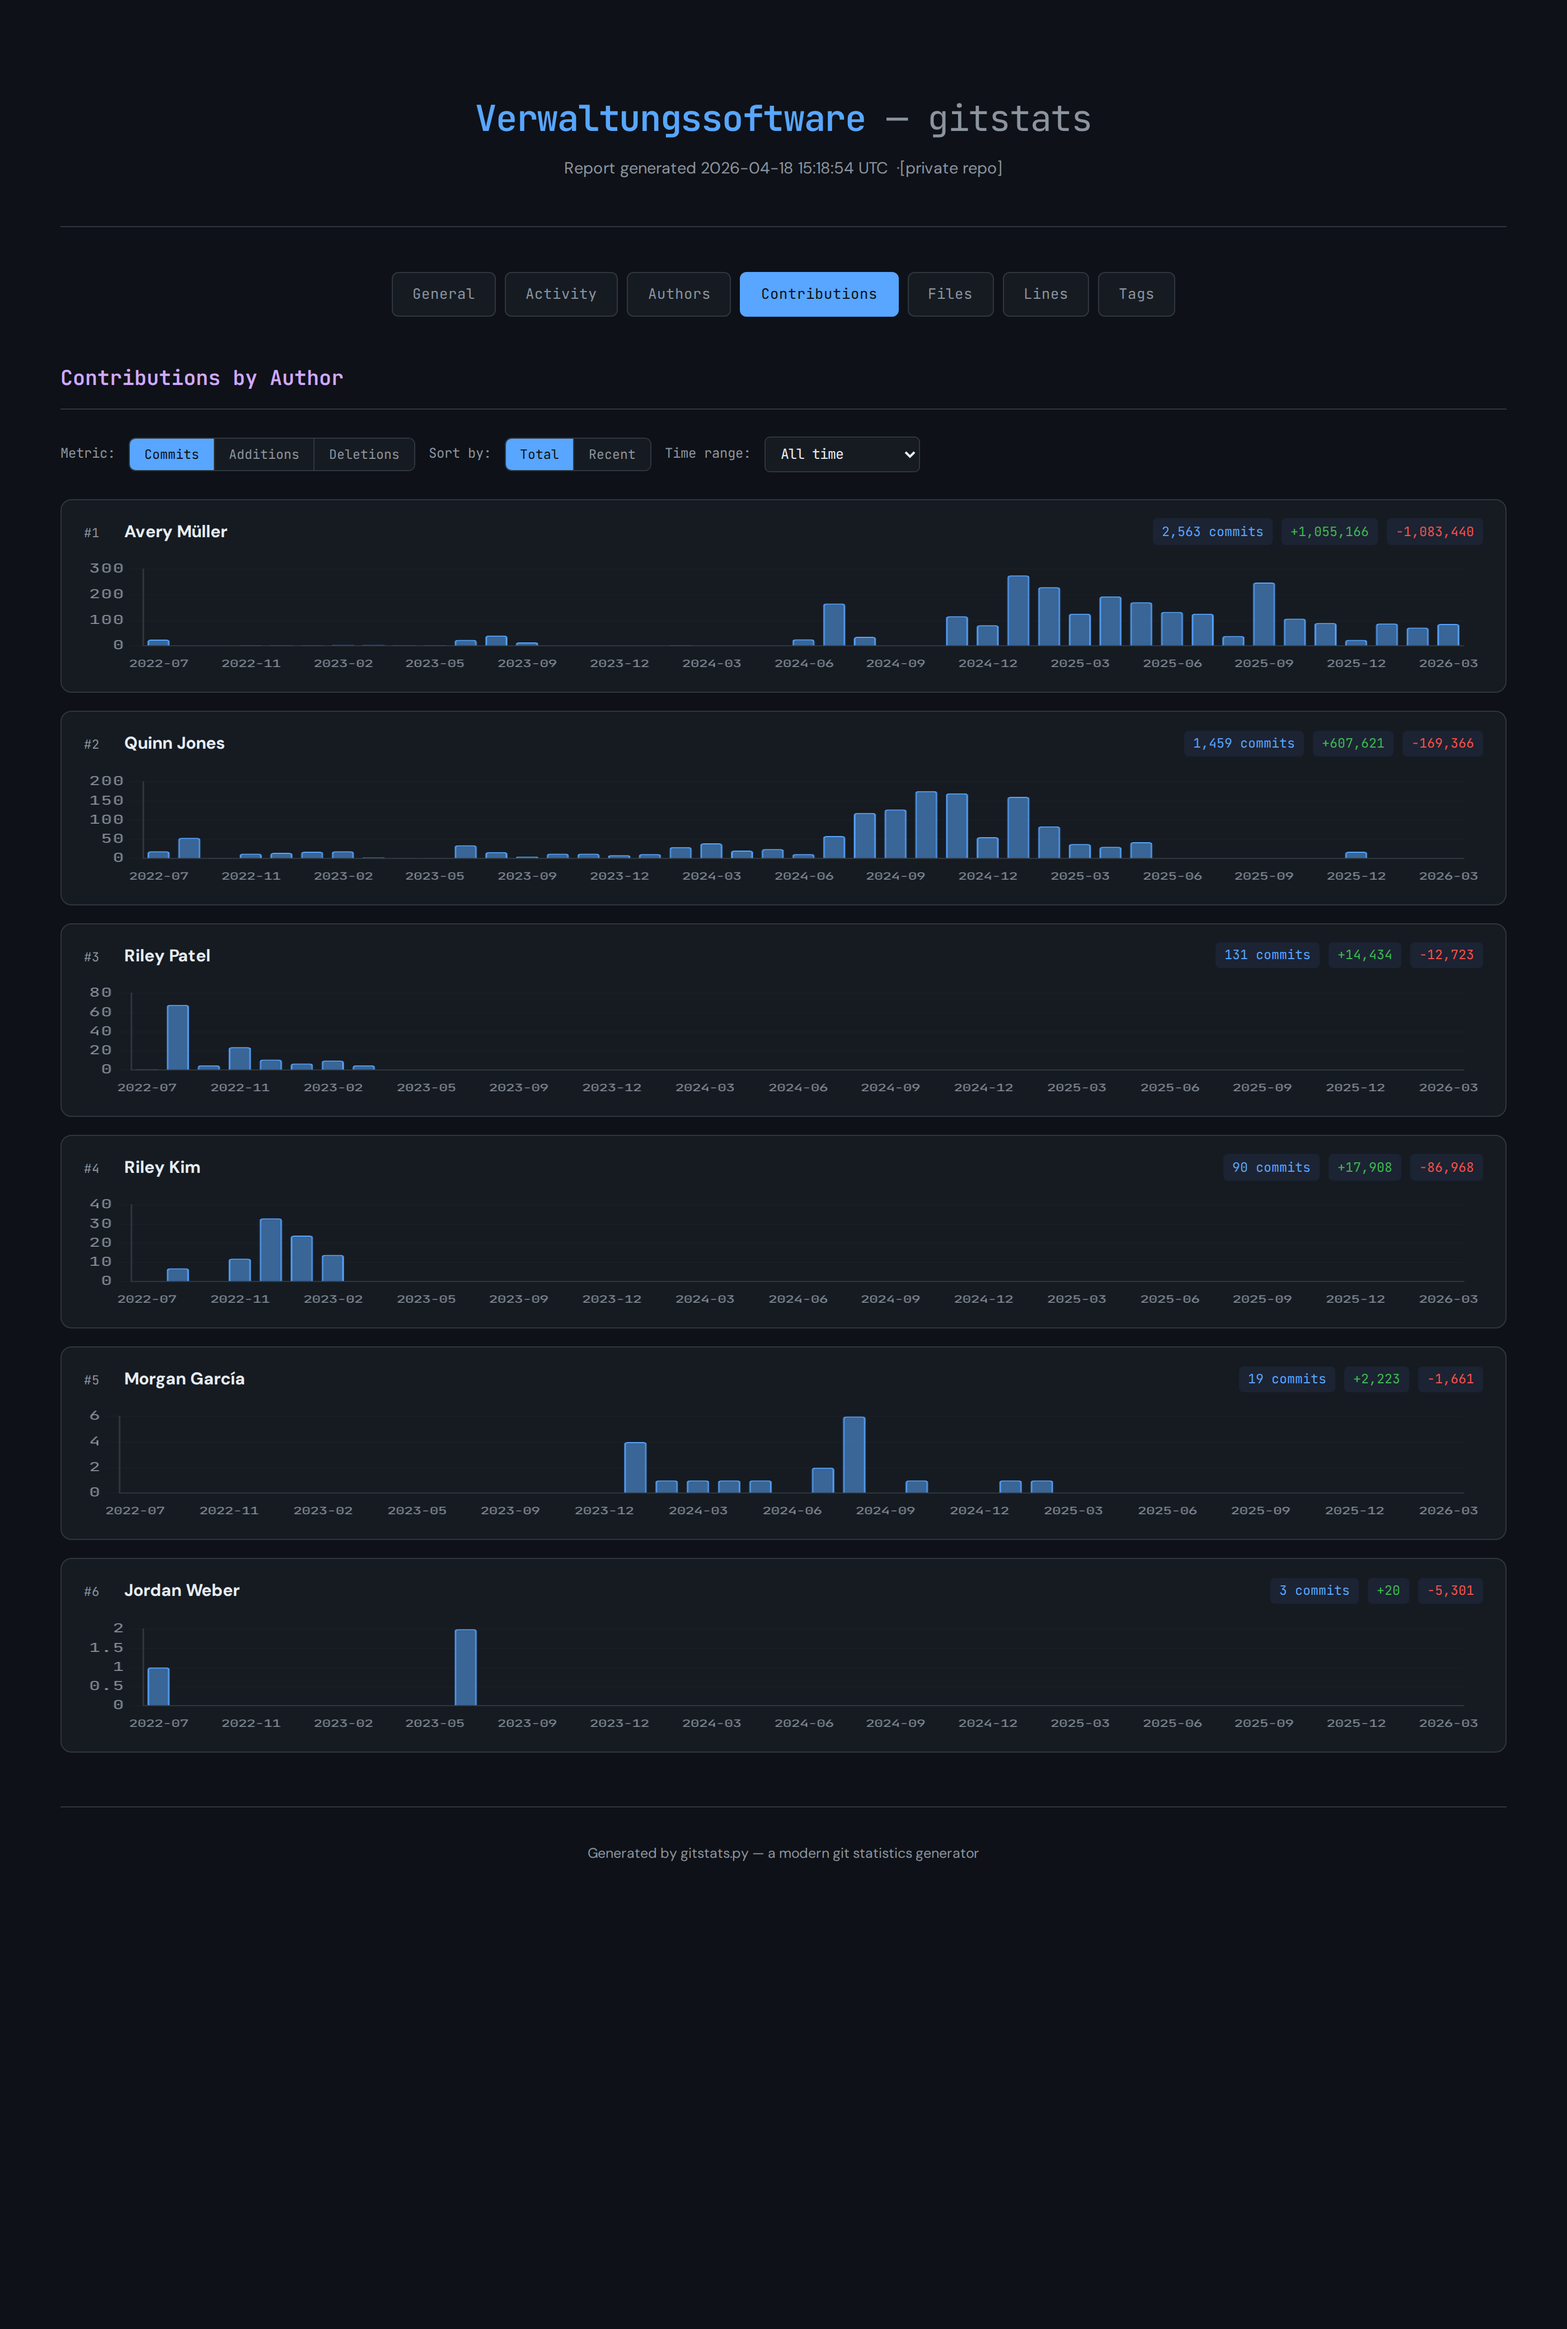
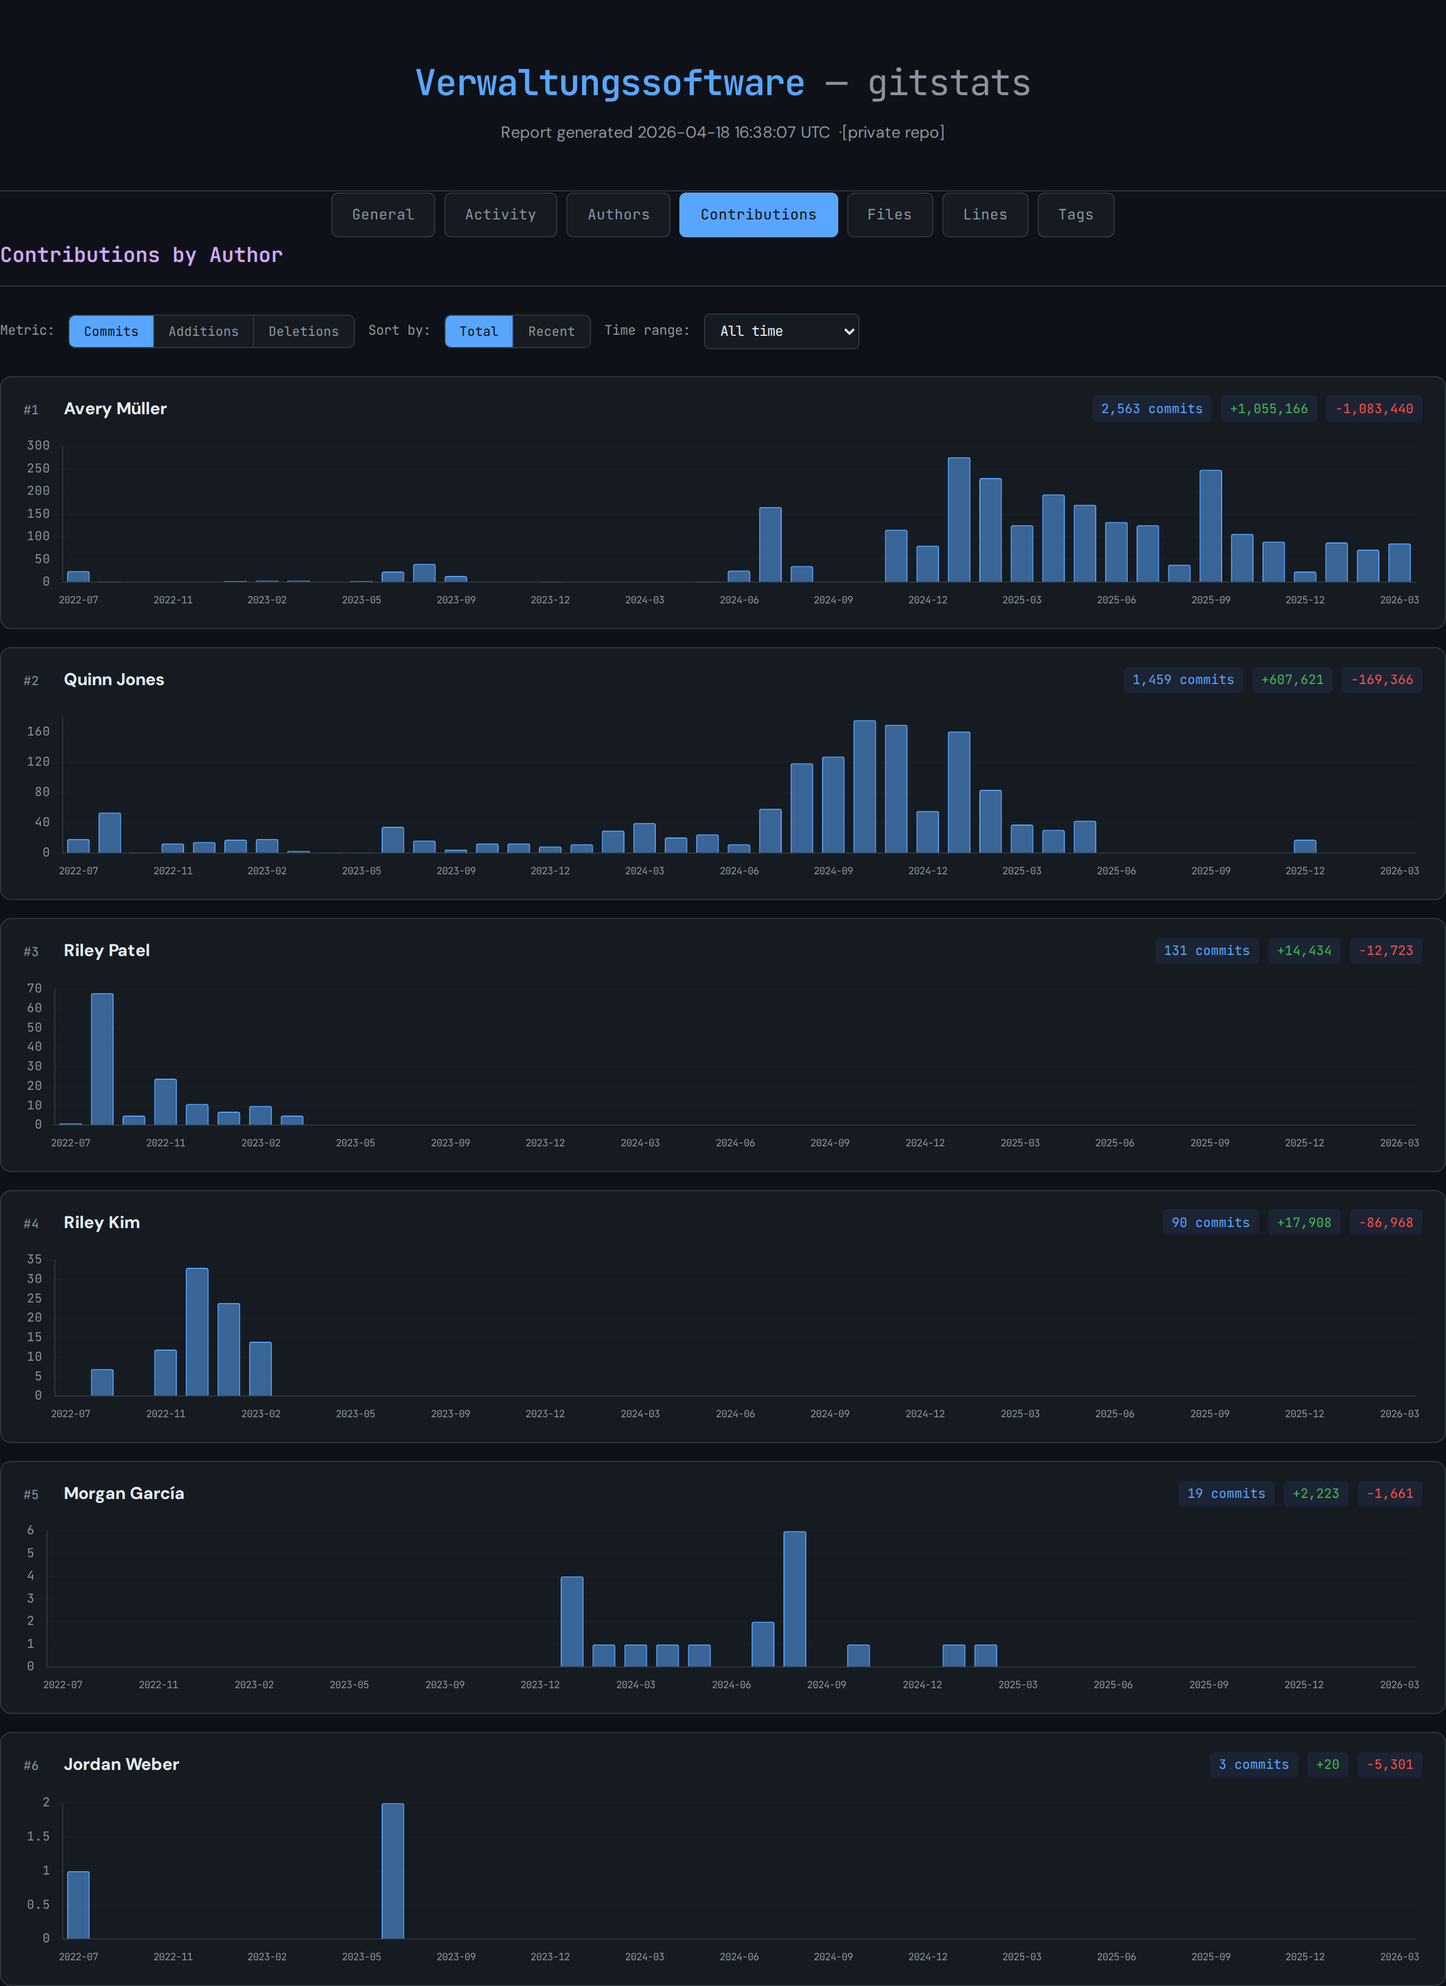
Fix chart rendering in screenshots and add CLAUDE.md
Charts rendered inside display:none sections measured 0-width containers,
producing broken axis layouts. Fix: patch HTML to show all sections before
load, init all charts at correct width, then element-screenshot each section
and PIL-composite with header+nav — no show/hide toggling during capture.

diff --git a/docs/sample_report.html b/docs/sample_report.html
@@ -391,7 +391,7 @@ footer {
 
 <header>
     <h1>Verwaltungssoftware <span>— gitstats</span></h1>
-    <p>Report generated 2026-04-18 15:18:54 UTC &nbsp;·[private repo]</p>
+    <p>Report generated 2026-04-18 16:38:07 UTC &nbsp;·[private repo]</p>
 </header>
 
 <nav>

diff --git a/docs/screenshot.py b/docs/screenshot.py
@@ -170,6 +170,20 @@ def obfuscate(html: str) -> str:
 async def take_screenshots(html_path: Path):
     from playwright.async_api import async_playwright
 
+    # Patch the HTML so ALL sections are display:block before any JS runs.
+    # Charts inside display:none measure 0-width → broken axis layouts.
+    # We keep all sections visible throughout and clip each screenshot to
+    # the relevant section's bounding box — no show/hide toggling at all.
+    patched_path = html_path.parent / (html_path.stem + '_screenshot.html')
+    src = html_path.read_text(encoding='utf-8')
+    src = src.replace(
+        '</head>',
+        '<style>.section{display:block!important}</style></head>',
+        1,
+    )
+    # Also pre-mark all sections active so nav highlights look right per screenshot
+    patched_path.write_text(src, encoding='utf-8')
+
     async with async_playwright() as p:
         browser = await p.chromium.launch()
         page = await browser.new_page(
@@ -177,33 +191,65 @@ async def take_screenshots(html_path: Path):
             device_scale_factor=2,
         )
 
-        await page.goto(f'file://{html_path}', wait_until='networkidle')
-        await page.wait_for_timeout(2000)  # fonts + initial render
+        await page.goto(f'file://{patched_path}', wait_until='networkidle')
+        await page.wait_for_timeout(500)
+
+        # Trigger every section's lazy init — all visible, correct widths.
+        await page.evaluate('''
+            Object.keys(sectionInits).forEach(sec => {
+                if (!_init[sec]) { _init[sec] = true; sectionInits[sec](); }
+            });
+        ''')
+
+        # Scroll full page slowly so every chart renders and animates.
+        scroll_y = 0
+        total_h = await page.evaluate('document.documentElement.scrollHeight')
+        while scroll_y < total_h:
+            scroll_y = min(scroll_y + 600, total_h)
+            await page.evaluate(f'window.scrollTo(0, {scroll_y})')
+            await page.wait_for_timeout(120)
+            total_h = await page.evaluate('document.documentElement.scrollHeight')
+        await page.evaluate('window.scrollTo(0, 0)')
+        await page.wait_for_timeout(2000)
 
         for sec_name, filename in SECTIONS:
             print(f'  {sec_name}...')
 
-            await page.click(f'nav a[data-sec="{sec_name}"]')
-            await page.evaluate('window.scrollTo(0, 0)')
-            await page.wait_for_timeout(800)
+            # Highlight the correct nav tab
+            await page.evaluate(f'''
+                document.querySelectorAll("nav a").forEach(a =>
+                    a.classList.toggle("active", a.dataset.sec === "{sec_name}"));
+            ''')
+            await page.wait_for_timeout(200)
 
-            # Scroll slowly to trigger lazy chart inits
-            scroll_y = 0
-            total_h = await page.evaluate('document.documentElement.scrollHeight')
-            while scroll_y < total_h:
-                scroll_y = min(scroll_y + 600, total_h)
-                await page.evaluate(f'window.scrollTo(0, {scroll_y})')
-                await page.wait_for_timeout(150)
-                total_h = await page.evaluate('document.documentElement.scrollHeight')
+            # Build a composite: screenshot the sticky top bar + the section element.
+            # We render the top (header+nav) and section separately then paste them.
+            top_el = await page.query_selector('header')
+            nav_el = await page.query_selector('nav')
+            sec_el = await page.query_selector(f'#sec-{sec_name}')
 
-            await page.evaluate('window.scrollTo(0, 0)')
-            await page.wait_for_timeout(1500)
+            top_img_bytes  = await top_el.screenshot()
+            nav_img_bytes  = await nav_el.screenshot()
+            sec_img_bytes  = await sec_el.screenshot()
+
+            from PIL import Image
+            import io
+            top_img = Image.open(io.BytesIO(top_img_bytes))
+            nav_img = Image.open(io.BytesIO(nav_img_bytes))
+            sec_img = Image.open(io.BytesIO(sec_img_bytes))
+
+            total_h = top_img.height + nav_img.height + sec_img.height
+            composite = Image.new('RGB', (sec_img.width, total_h), (13, 17, 23))
+            composite.paste(top_img, (0, 0))
+            composite.paste(nav_img, (0, top_img.height))
+            composite.paste(sec_img, (0, top_img.height + nav_img.height))
 
             out = SCRIPT_DIR / filename
-            await page.screenshot(path=str(out), full_page=True)
+            composite.save(str(out))
             print(f'    → {out}')
 
         await browser.close()
+        patched_path.unlink(missing_ok=True)
 
 # ── Main ──────────────────────────────────────────────────────────────────────
 

diff --git a/current-CLAUDE.md b/current-CLAUDE.md
@@ -1,0 +1,101 @@
+# CLAUDE.md — gitstats (working copy)
+
+> **Versioning**: This file (`current-CLAUDE.md`) tracks in-progress work.
+> When a batch of changes is pushed, replace `CLAUDE.md` with this file's content.
+> On revert, restore the `CLAUDE.md` that matches the target commit — `current-CLAUDE.md`
+> can be discarded or reset. Never commit `current-CLAUDE.md` changes as a standalone
+> commit; bundle them with the actual code changes they describe.
+
+---
+
+## What this project is
+
+`gitstats.py` — a single-file Python script that analyzes a git repository and produces
+a self-contained, dark-themed HTML report with Chart.js charts and interactive tables.
+
+**Output**: one `index.html` file, no external dependencies at runtime.
+
+**Usage**: `python3 gitstats.py <repo_path> [output_dir]`
+
+---
+
+## Repo layout
+
+```
+gitstats.py            # main script — all HTML/CSS/JS is generated inline here
+docs/
+  screenshot.py        # Playwright script: generates obfuscated sample + screenshots
+  sample_report.html   # obfuscated demo report (committed, regenerated by screenshot.py)
+  screenshot-*.png     # section screenshots used in README
+  CLAUDE.md            # stable doc (matches last pushed state)
+  current-CLAUDE.md    # this file — in-progress notes
+README.md
+```
+
+---
+
+## Features implemented
+
+- Commit count matching GitHub (uses `git rev-list HEAD --count`, not `--all`)
+- Per-author commit list modal: click author name → modal with hash, date, message, GitHub link
+- GitHub remote URL auto-detected from `git remote get-url origin` (SSH + HTTPS)
+- Lazy section init: charts only render when their nav tab is first clicked
+- Chart.js charts: activity (hour/dow/month/year/monthly-line), heatmap, authors bar,
+  contributions per-author, files-over-time, LOC-over-time
+- Obfuscation script (`docs/screenshot.py`) replaces author names + short hashes,
+  fixes a handful of personally-revealing commit messages, clears GitHub base URL
+
+---
+
+## Screenshot rendering — root cause + fix
+
+**Problem**: Charts rendered inside `display:none` sections measure 0-width containers.
+Chart.js uses that 0-width to size axis labels, producing broken/squished layouts
+(rotated labels eating all vertical space, flat bars, etc.). Contributions section was
+unaffected because its charts are built dynamically on first click, after the section
+is already visible.
+
+**Failed approaches**:
+- `add_style_tag` after `page.goto` — wiped by navigation
+- `add_style_tag` after load, then `style.remove()` before screenshots — nav click
+  triggers chart `resize()` which recalculates with wrong dimensions
+- Destroy + reinit via `sectionInits[sec]()` after clicking nav — same resize problem
+
+**Working fix** (in `docs/screenshot.py`):
+1. Patch the HTML file before loading: inject `<style>.section{display:block!important}</style>` into `<head>`
+2. After load, call every `sectionInits[sec]()` explicitly — all charts render at full 1400px width
+3. Scroll full page so all content is rendered and animations complete
+4. Per screenshot: use Playwright's **element screenshot** (`el.screenshot()`) on the
+   `header`, `nav`, and `#sec-{name}` elements separately, then PIL-composite them
+   into one image — no show/hide toggling, no chart resize triggered
+
+---
+
+## Obfuscation rules (docs/screenshot.py)
+
+- Author names: replaced via `AUTHOR_MAP` dict (6 entries, real → fake Western names)
+- Short hashes in `<code>` tags: replaced with deterministic MD5-based fakes
+- Full hashes in JSON `authorCommits`: replaced with SHA1-based fakes
+- Commit messages: only fix unintelligible/revealing ones via `MESSAGE_FIXUPS` dict
+  (keep "reste migrations", LOC values, etc. as-is — they're fine)
+- `githubBase` in JSON: cleared to `""` so modal links don't point to real commits
+- Repo path: replaced with `/private/Verwaltungssoftware`
+- Remote URL in subtitle: replaced with `[private repo]`
+
+---
+
+## Known issues / TODO
+
+- [ ] Tags section not yet implemented in `gitstats.py` (nav tab exists, section is empty)
+- [ ] No tests — all verification is manual/visual via screenshots
+- [ ] `docs/screenshot.py` depends on `pillow` (`pip install pillow`) in addition to playwright
+
+---
+
+## Rules for this project
+
+- **NEVER auto-push** — always ask before `git push`
+- Commit `current-CLAUDE.md` is never pushed alone; bundle with code changes
+- When reverting: `git reset --hard <target>` cleans everything including screenshots;
+  `current-CLAUDE.md` can be manually restored or discarded
+- Default repo for screenshots: `/home/Moritz/GitHub/Hopfenbaugenossenschaft/Verwaltungssoftware`

diff --git a/CLAUDE.md b/CLAUDE.md
@@ -1,0 +1,77 @@
+# CLAUDE.md — gitstats
+
+> **Versioning**: `current-CLAUDE.md` tracks in-progress work and is updated alongside
+> code changes. When changes are pushed, its content replaces this file. On revert,
+> restore the `CLAUDE.md` that matches the target commit — `current-CLAUDE.md` can be
+> discarded. Never commit `current-CLAUDE.md` standalone; bundle it with code changes.
+
+---
+
+## What this project is
+
+`gitstats.py` — a single-file Python script that analyzes a git repository and produces
+a self-contained, dark-themed HTML report with Chart.js charts and interactive tables.
+
+**Output**: one `index.html` file, no external dependencies at runtime.
+
+**Usage**: `python3 gitstats.py <repo_path> [output_dir]`
+
+---
+
+## Repo layout
+
+```
+gitstats.py            # main script — all HTML/CSS/JS is generated inline here
+docs/
+  screenshot.py        # Playwright script: generates obfuscated sample + screenshots
+  sample_report.html   # obfuscated demo report (committed, regenerated by screenshot.py)
+  screenshot-*.png     # section screenshots used in README
+  CLAUDE.md            # this file — matches last pushed state
+  current-CLAUDE.md    # in-progress notes (not always committed)
+README.md
+```
+
+---
+
+## Features implemented
+
+- Commit count matching GitHub (`git rev-list HEAD --count`, not `--all`)
+- Per-author commit list modal: click author name → modal with hash, date, message, GitHub link
+- GitHub remote URL auto-detected (SSH + HTTPS)
+- Lazy section init: charts only render when their nav tab is first clicked
+- Chart.js charts: activity (hour/dow/month/year/monthly-line), heatmap, authors bar,
+  contributions per-author, files-over-time, LOC-over-time
+- Obfuscation + screenshot pipeline (`docs/screenshot.py`)
+
+---
+
+## Screenshot rendering — root cause + fix
+
+**Problem**: Charts rendered inside `display:none` sections measure 0-width containers →
+broken axis layouts (rotated labels eating vertical space, flat bars).
+
+**Fix** (in `docs/screenshot.py`):
+1. Patch HTML before loading: inject `<style>.section{display:block!important}</style>`
+2. Call every `sectionInits[sec]()` after load — all charts render at correct 1400px width
+3. Scroll full page so all content renders
+4. Screenshot each section by PIL-compositing `header` + `nav` + `#sec-{name}` element
+   screenshots — no show/hide toggling, no chart resize triggered
+
+---
+
+## Obfuscation rules (docs/screenshot.py)
+
+- Author names: `AUTHOR_MAP` dict (real → fake)
+- Short hashes `<code>` tags: deterministic MD5 fakes
+- Full hashes in JSON: SHA1 fakes
+- Commit messages: only fix unintelligible/revealing ones via `MESSAGE_FIXUPS`
+- `githubBase` cleared to `""` — modal links don't point to real commits
+- Repo path → `/private/Verwaltungssoftware`, remote URL → `[private repo]`
+
+---
+
+## Rules
+
+- **NEVER auto-push** — always ask before `git push`
+- Default screenshot repo: `/home/Moritz/GitHub/Hopfenbaugenossenschaft/Verwaltungssoftware`
+- `docs/screenshot.py` requires `pillow` + `playwright` (`pip install pillow playwright`)
